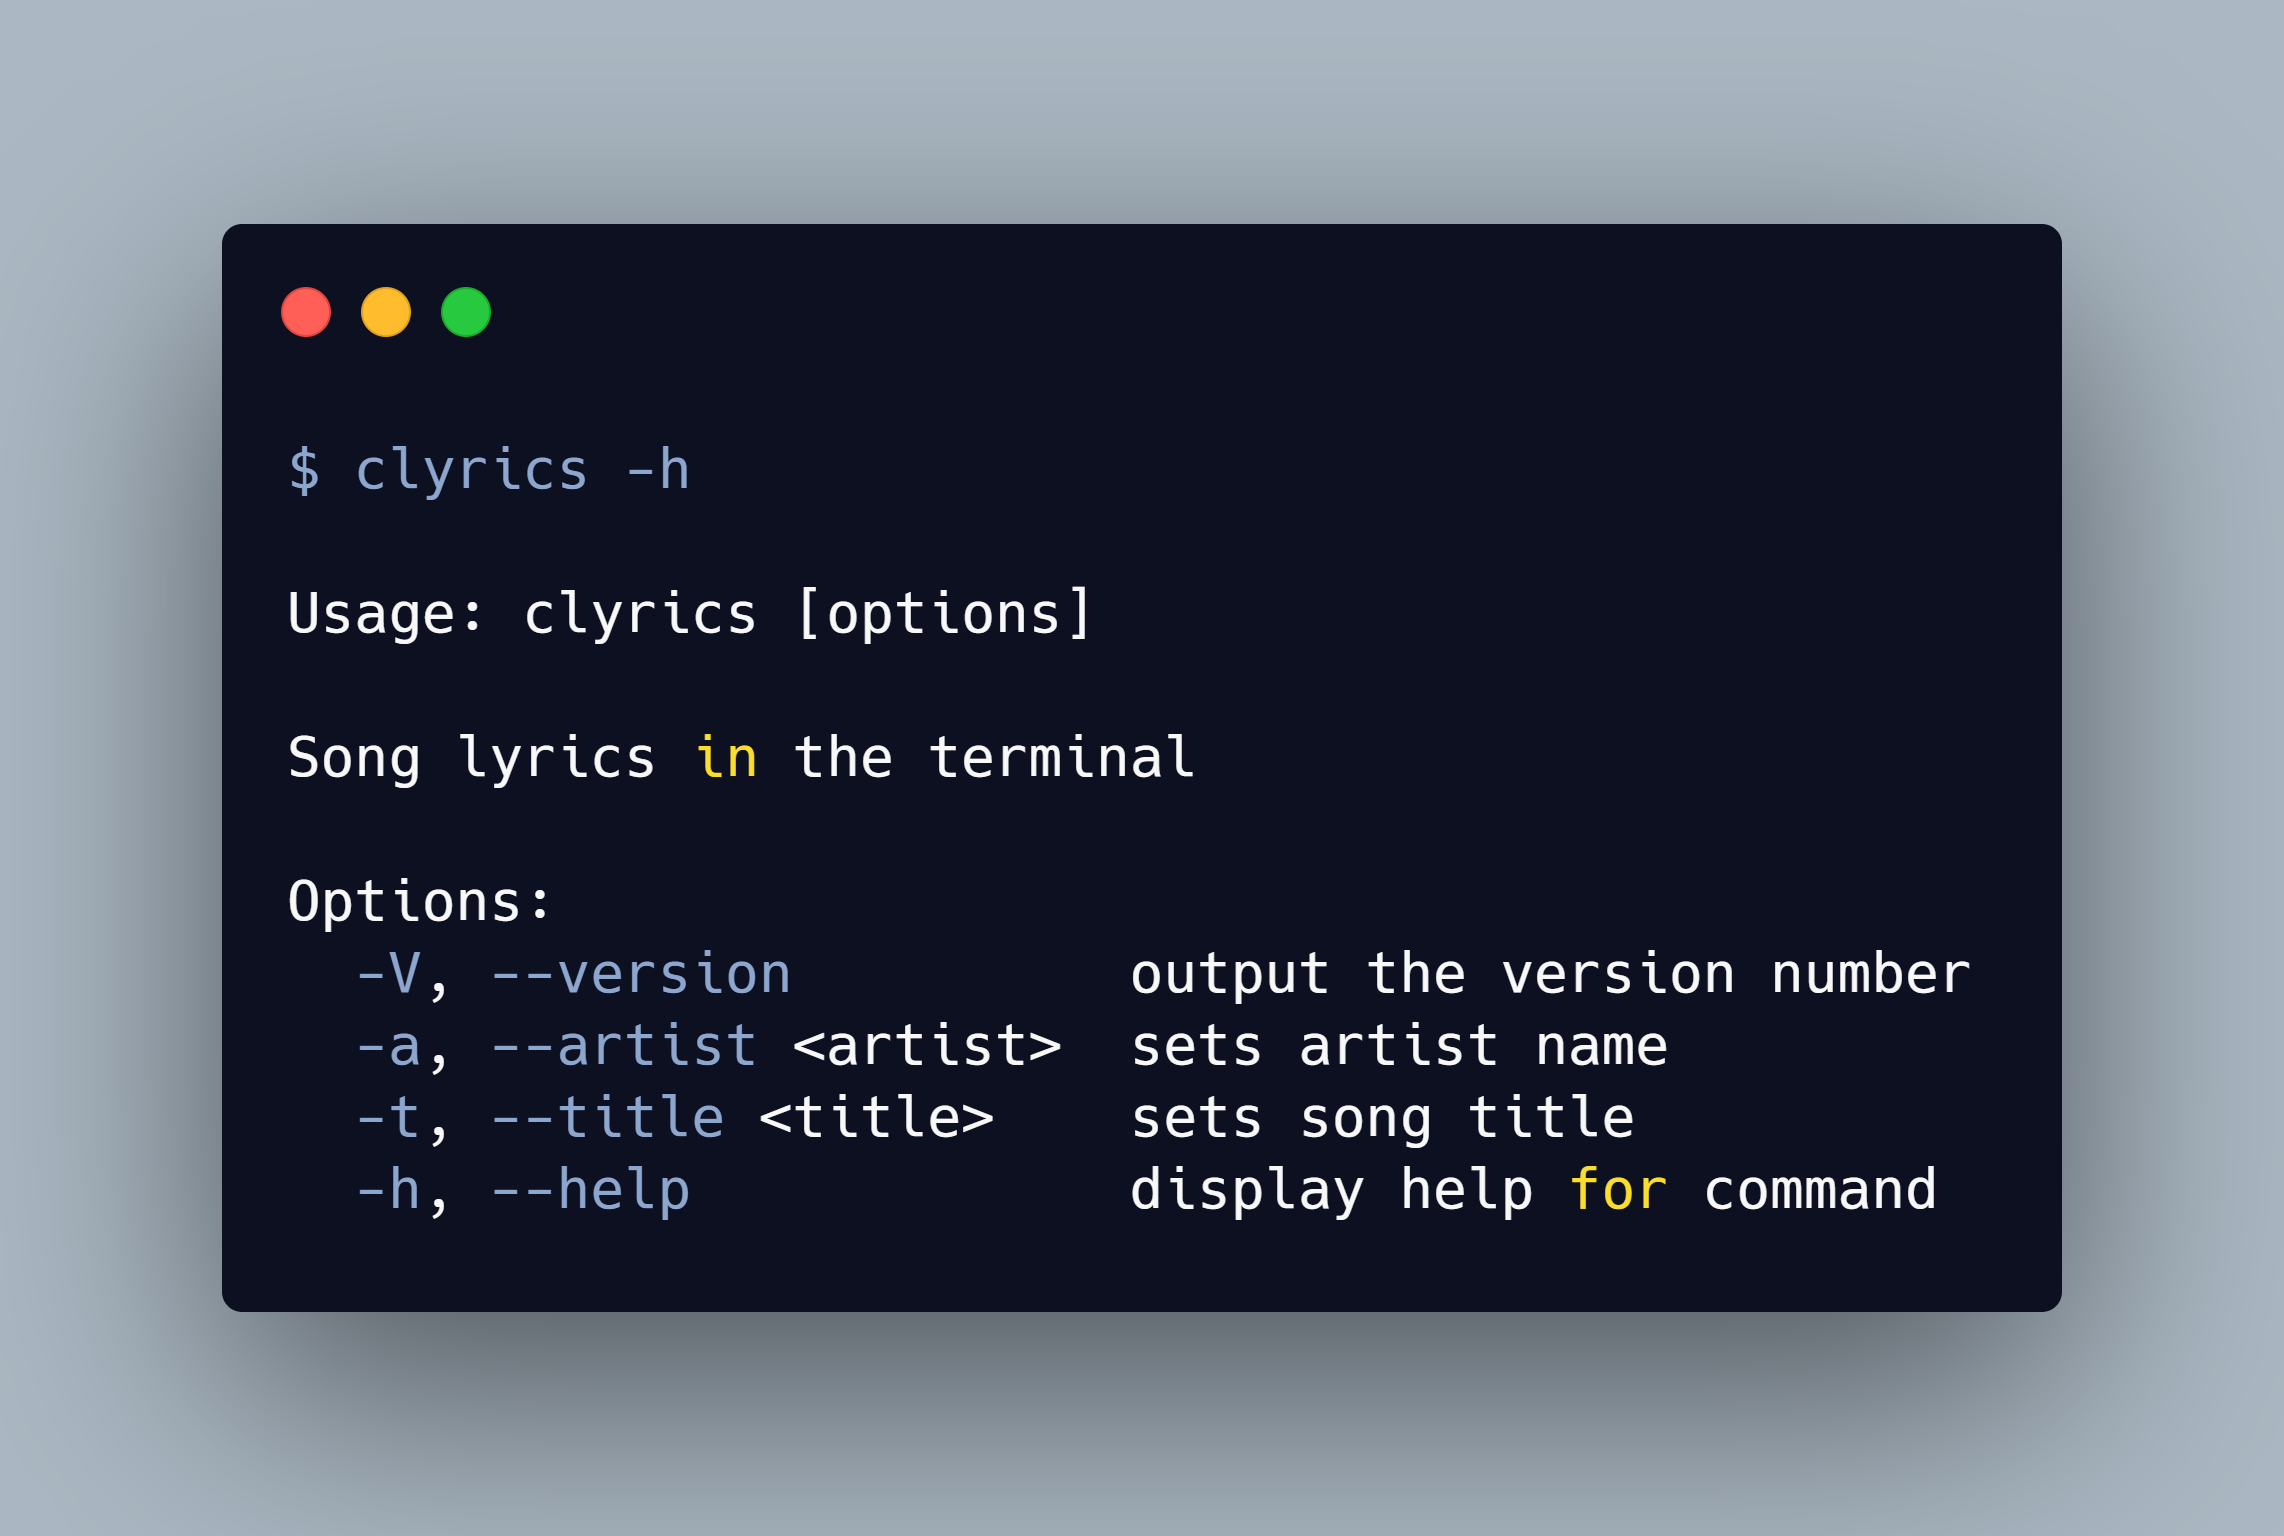
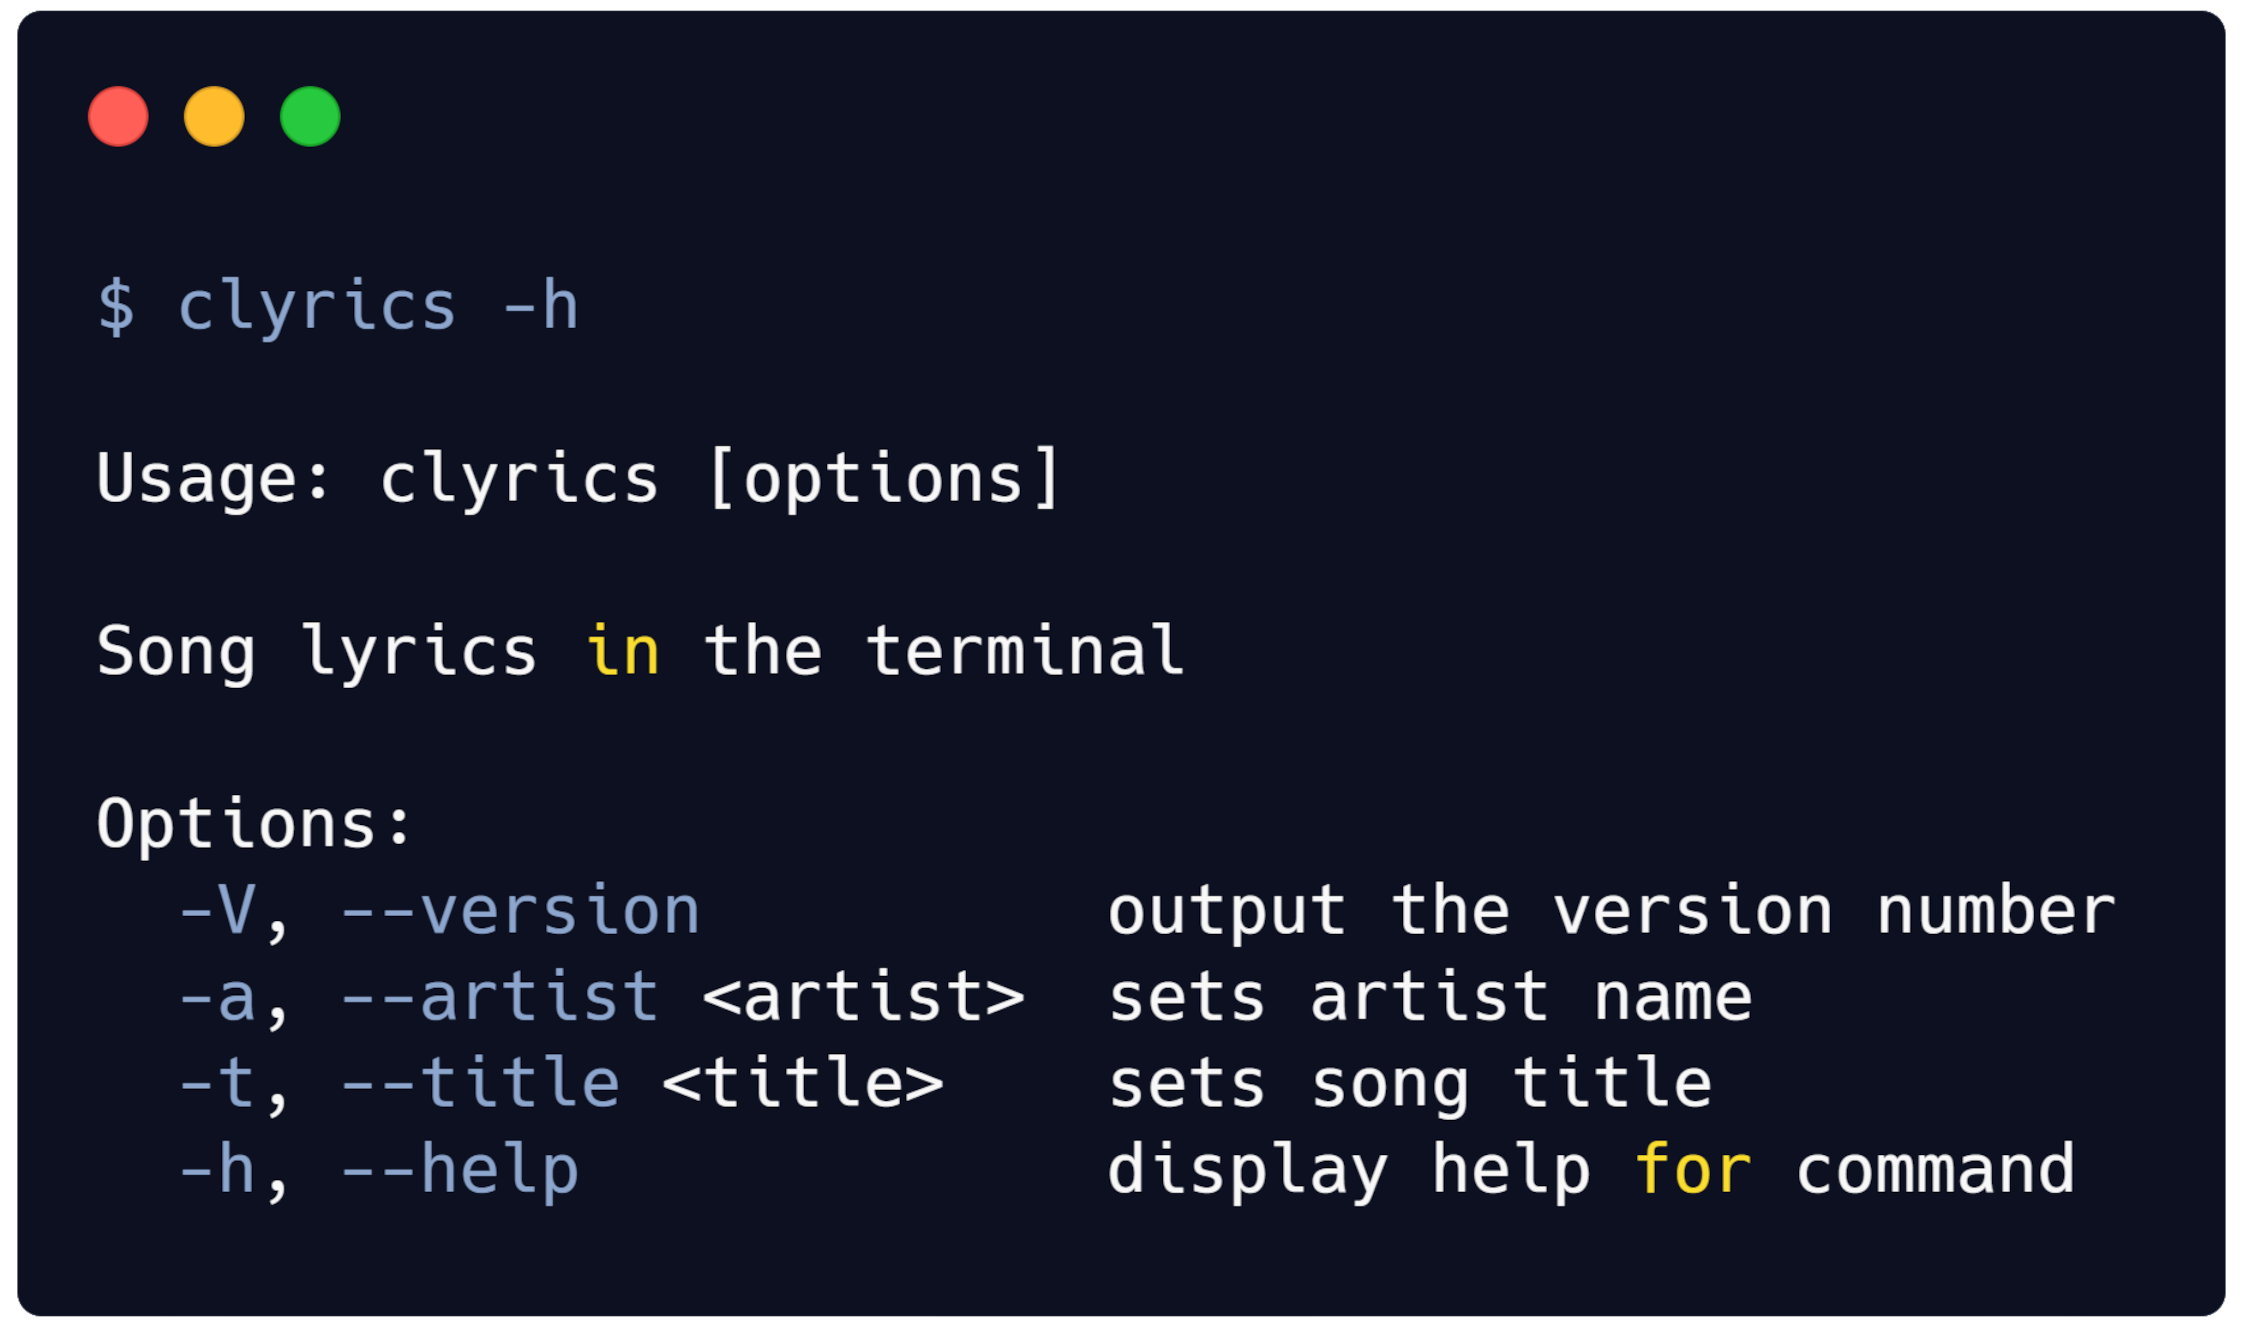
Fixes, refactoring, new content

diff --git a/src/layouts/Default.vue b/src/layouts/Default.vue
@@ -1,17 +1,19 @@
 <template>
-  <div class="layout">
-    <a href="https://github.com/wvovaw/wvovaw.github.io" class="github-corner" aria-label="Fork me on GitHub">
-      <svg xmlns="http://www.w3.org/2000/svg" width="80" height="80" viewBox="0 0 250 250" fill="#2aa198" style="position: absolute; top: 0; right: 0">
-        <path d="M0 0l115 115h15l12 27 108 108V0z" fill="#073642"/>
-        <path class="octo-arm" d="M128 109c-15-9-9-19-9-19 3-7 2-11 2-11-1-7 3-2 3-2 4 5 2 11 2 11-3 10 5 15 9 16" style="-webkit-transform-origin: 130px 106px; transform-origin: 130px 106px"/>
-        <path class="octo-body" d="M115 115s4 2 5 0l14-14c3-2 6-3 8-3-8-11-15-24 2-41 5-5 10-7 16-7 1-2 3-7 12-11 0 0 5 3 7 16 4 2 8 5 12 9s7 8 9 12c14 3 17 7 17 7-4 8-9 11-11 11 0 6-2 11-7 16-16 16-30 10-41 2 0 3-1 7-5 11l-12 11c-1 1 1 5 1 5z"/>
-      </svg>
-    </a>
-    <Header />
-    <Title />
-    <Projects />
-    <Contact />
-    <Footer />
+  <div id="layout">
+    <div id="content-wrapper">
+      <a href="https://github.com/wvovaw/wvovaw.github.io" class="github-corner" aria-label="Fork me on GitHub">
+        <svg xmlns="http://www.w3.org/2000/svg" width="80" height="80" viewBox="0 0 250 250" fill="#2aa198" style="position: absolute; top: 0; right: 0">
+          <path d="M0 0l115 115h15l12 27 108 108V0z" fill="#073642"/>
+          <path class="octo-arm" d="M128 109c-15-9-9-19-9-19 3-7 2-11 2-11-1-7 3-2 3-2 4 5 2 11 2 11-3 10 5 15 9 16" style="-webkit-transform-origin: 130px 106px; transform-origin: 130px 106px"/>
+          <path class="octo-body" d="M115 115s4 2 5 0l14-14c3-2 6-3 8-3-8-11-15-24 2-41 5-5 10-7 16-7 1-2 3-7 12-11 0 0 5 3 7 16 4 2 8 5 12 9s7 8 9 12c14 3 17 7 17 7-4 8-9 11-11 11 0 6-2 11-7 16-16 16-30 10-41 2 0 3-1 7-5 11l-12 11c-1 1 1 5 1 5z"/>
+        </svg>
+      </a>
+      <Header />
+      <Title />
+      <Projects />
+      <Contact />
+    </div> 
+    <Footer id="footer" />
   </div>
 </template>
 
@@ -34,16 +36,21 @@ export default {
 
 <style>
 .github-corner:hover .octo-arm{animation:octocat-wave 560ms ease-in-out}@keyframes octocat-wave{0%,100%{transform:rotate(0)}20%,60%{transform:rotate(-25deg)}40%,80%{transform:rotate(10deg)}}@media (max-width:500px){.github-corner:hover .octo-arm{animation:none}.github-corner .octo-arm{animation:octocat-wave 560ms ease-in-out}}
+html {height: 100%;}
 body {
   font-family: Poppins;
   margin:0;
   padding:0;
   line-height: 1.5;
+  height: 100%;
   background-color: #073642;
 }
 
-.layout {
-  margin: 0 auto;
+#layout {
+}
+#content-wrapper {
+}
+#footer {
 }
 
 h1 {

diff --git a/gridsome.server.js b/gridsome.server.js
@@ -28,19 +28,27 @@ module.exports = function (api) {
     })
 
     projects.addNode({
-      id: '0',
-      title: 'Anonimalus',
-      description: 'Discord.js bot for anonymous messaging.',
-      image: 'anon2.png',
-      link: 'https://github.com/wvovaw/anonimalus'
+      id: '5',
+      title: 'LSApproximation',
+      description: 'Least square approximation app writen on c++ and qt.',
+      image: 'lsa.png',
+      link: 'https://github.com/wvovaw/LSApproximation'
     })
 
     projects.addNode({
-      id: '1',
-      title: 'Clyrics',
-      description: 'Search and read song lyrics from your terminal!',
-      image: 'clyrics2.png',
-      link: 'https://github.com/wvovaw/clyrics'
+      id: '4',
+      title: 'Balda, the game',
+      description: 'The Russian pen-and-paper game where players should build as long words as possible.',
+      image: 'balda.png',
+      link: 'https://github.com/wvovaw/Balda'
+    })
+
+    projects.addNode({
+      id: '3',
+      title: 'Twitch bot',
+      description: 'It does what it\'s told.',
+      image: 'pig.png',
+      link: 'https://github.com/wvovaw/TwitchBot'
     })
 
     projects.addNode({
@@ -49,6 +57,22 @@ module.exports = function (api) {
       description: 'Vocabulary training web app.\n1) Add word, translation, image;\n2) Train words in quiz;\n3) Memorize them!',
       image: 'vuevocab.png',
       link: 'https://github.com/wvovaw/Vue-Vocab'
+    })
+
+    projects.addNode({
+      id: '1',
+      title: 'Clyrics',
+      description: 'Search and read song lyrics from your terminal!',
+      image: 'clyrics.png',
+      link: 'https://github.com/wvovaw/clyrics'
+    })
+
+    projects.addNode({
+      id: '0',
+      title: 'Anonimalus',
+      description: 'Discord.js bot for anonymous messaging.',
+      image: 'anon.png',
+      link: 'https://github.com/wvovaw/anonimalus'
     })
   })
 }

diff --git a/src/layouts/Header.vue b/src/layouts/Header.vue
@@ -1,9 +1,9 @@
 <template>
     <header class="header">
-        <g-link class="logo__link" to="/">{{ $static.metadata.siteName }}</g-link>
+        <a class="logo__link" href="/">{{ $static.metadata.siteName }}</a>
       <nav class="nav">
         <a class="nav__link" href="/#projects">Projects</a>
-        <g-link class="nav__link" to="/#contact">Contact</g-link>
+        <a class="nav__link" href="/#contact-me">Contact</a>
       </nav>
     </header>
 </template>
@@ -28,12 +28,18 @@ query {
   padding: 0 200px 0 200px;
 }
 
-a, a:active, a:visited {
+a, a:visited {
+  text-decoration: none;
+  color: #859900;
+}
+a:hover {
+    text-decoration: underline;
+    color: #859900;
+    cursor: pointer;
+}
+a, a:active {
   text-decoration: none;
   color: #2aa198;
-}
-a.active--exact.active {
-  color: #cb4b16;
 }
 
 .nav__link {

diff --git a/src/layouts/Contact.vue b/src/layouts/Contact.vue
@@ -1,7 +1,7 @@
 <template>
-<div class="contact">
-    <h1 id="contact">Contact me</h1>
-    <footer>
+<div id="container">
+    <h1 id="contact-me">Contact me</h1>
+    <div id="contact">
       <nav class="nav">
         <a class="nav__link" href="https://github.com/wvovaw">
           <svg viewBox="0 0 100 100" aria-hidden="true" role="img">
@@ -23,7 +23,7 @@
           </svg>
         </a>
       </nav>
-    </footer>
+    </div>
   </div>
 </template>
 
@@ -34,12 +34,12 @@ h1 {
   padding: 20px 0 20px 0;
 }
 
-.contact {
+#container {
   background-color: #002b36;
   padding: 0 200px 50px 200px;
 }
 
-footer {
+#contact {
   font-family: Roboto Slab;
   text-align: center;
   float: none;

diff --git a/src/layouts/Footer.vue b/src/layouts/Footer.vue
@@ -1,28 +1,20 @@
 <template>
     <footer>
-      Made with Gridsom. 2021
+      Made with Gridsome. 2021
     </footer>
 </template>
 
 <style scoped>
-h1 {
-  font-family: Roboto Slab;
-  color: #657b83;
-  padding: 20px 0 20px 0;
-}
-
 footer {
   font-family: Roboto Slab;
   text-align: center;
-  float: none;
-  position:relative;
-  top: auto;
-  right:auto;
-  width: 100%;
-  height: auto;
-  line-height: 20px;
+
   color: #42b883;
   background-color: #35495e;
+
+  width: 100%;
+  height: 30px;
+  line-height: 30px;
 }
 
 </style>

diff --git a/src/layouts/Title.vue b/src/layouts/Title.vue
@@ -9,10 +9,6 @@
   </div>
 </template>
 
-<script>
-
-</script>
-
 <style scoped>
 .container {
     padding: 0 200px 55px 200px;

diff --git a/gridsome.config.js b/gridsome.config.js
@@ -9,4 +9,5 @@ module.exports = {
   ],
   siteName: 'wvovaw',
   siteUrl: 'https://wvovaw.github.io',
+  titleTemplate: '%s'
 }
